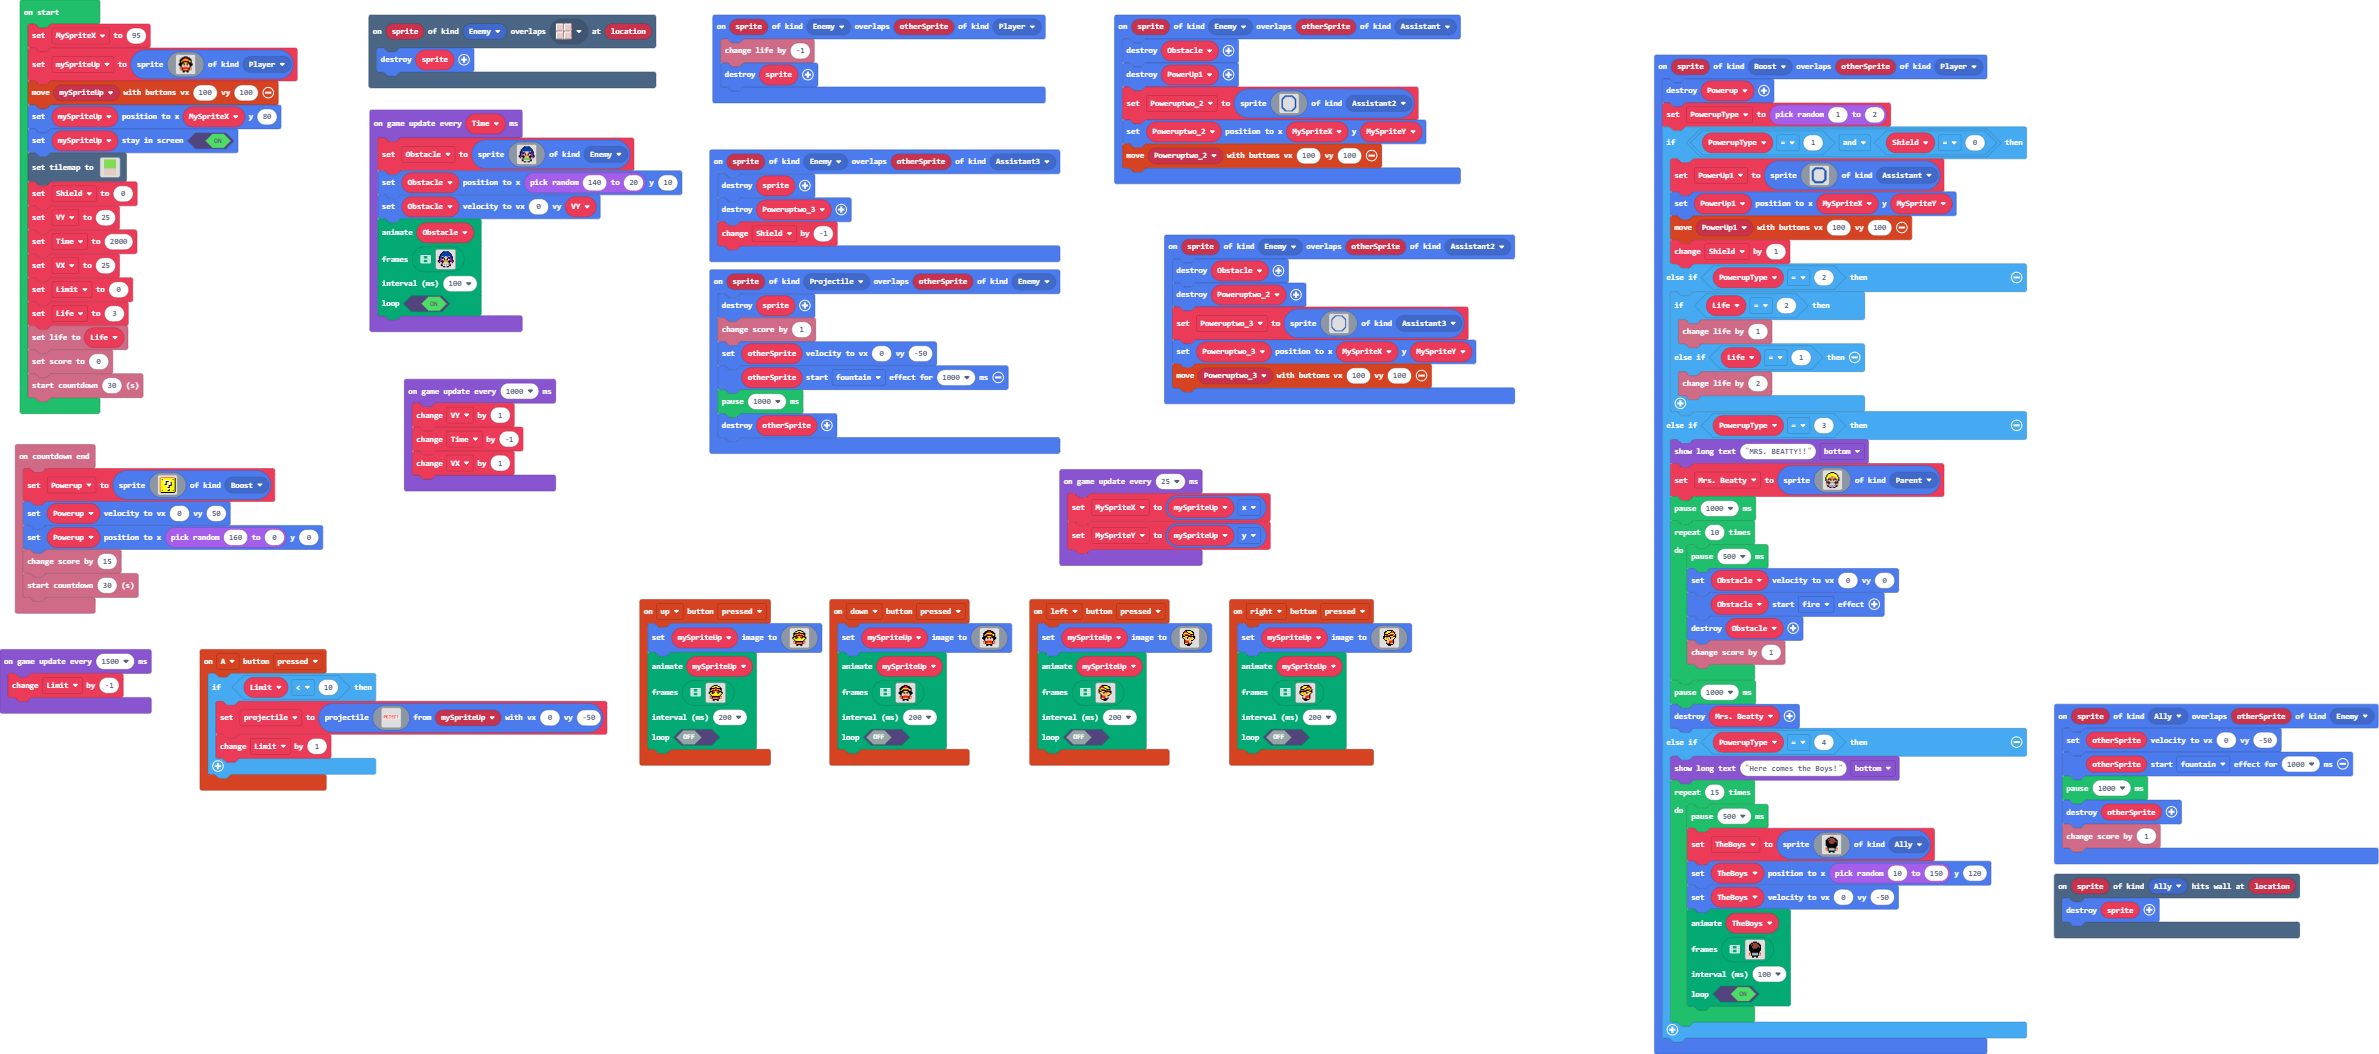
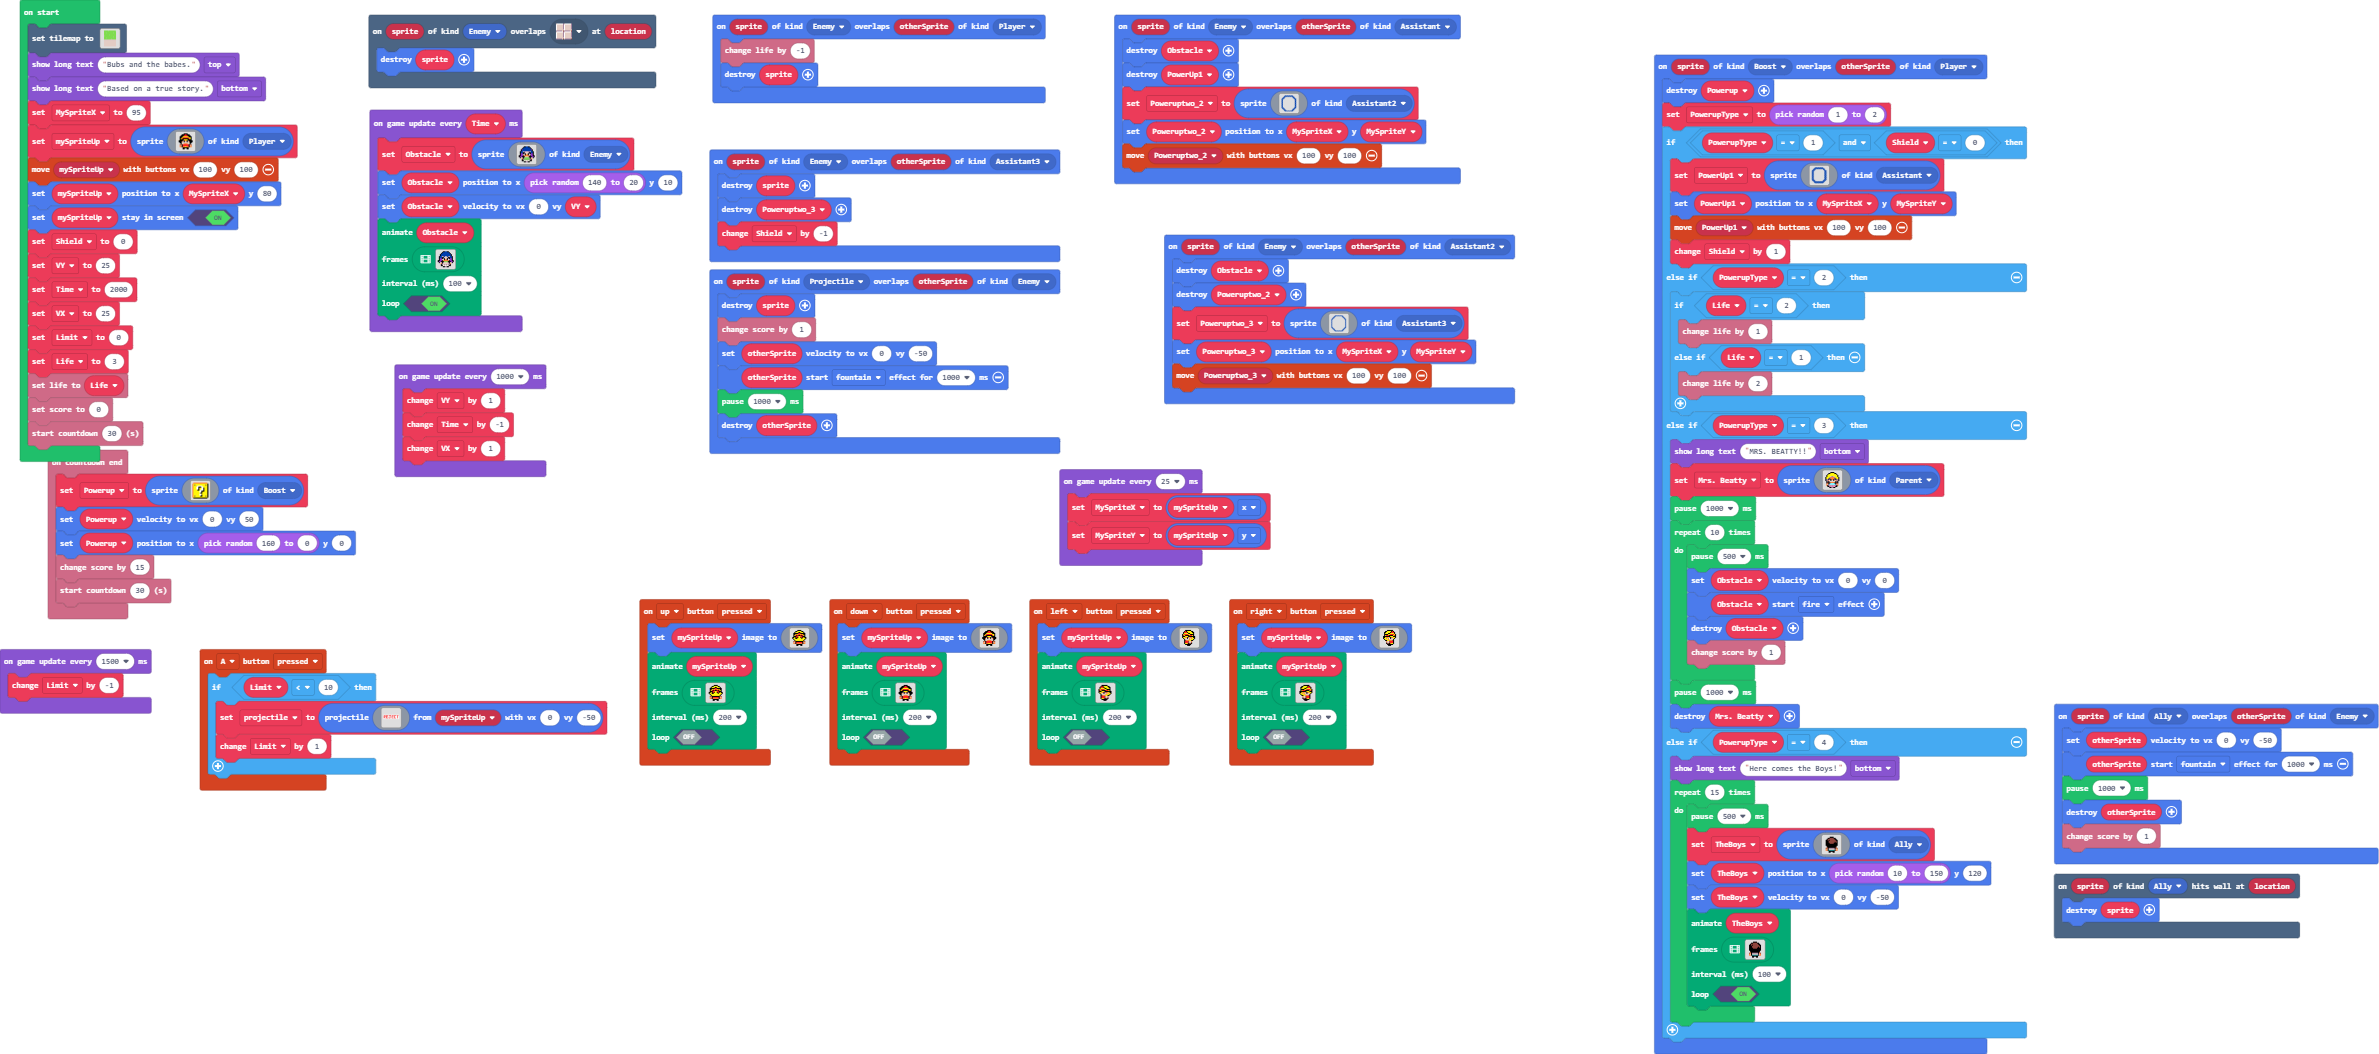
Update main.blocks, main.ts

Changed region(s): [[0.0, 0.2732, 0.2488, 0.6072], [0.0, 0.0, 0.1244, 0.2429]]

diff --git a/main.ts b/main.ts
@@ -692,6 +692,9 @@ let Limit = 0
 let Shield = 0
 let mySpriteUp: Sprite = null
 let MySpriteX = 0
+tiles.setTilemap(tilemap`level1`)
+game.showLongText("Bubs and the babes.", DialogLayout.Top)
+game.showLongText("Based on a true story.", DialogLayout.Bottom)
 MySpriteX = 95
 mySpriteUp = sprites.create(img`
     . . . . . . f f f f . . . . . . 
@@ -714,7 +717,6 @@ mySpriteUp = sprites.create(img`
 controller.moveSprite(mySpriteUp, 100, 100)
 mySpriteUp.setPosition(MySpriteX, 80)
 mySpriteUp.setStayInScreen(true)
-tiles.setTilemap(tilemap`level1`)
 Shield = 0
 let VY = 25
 let Time = 2000
